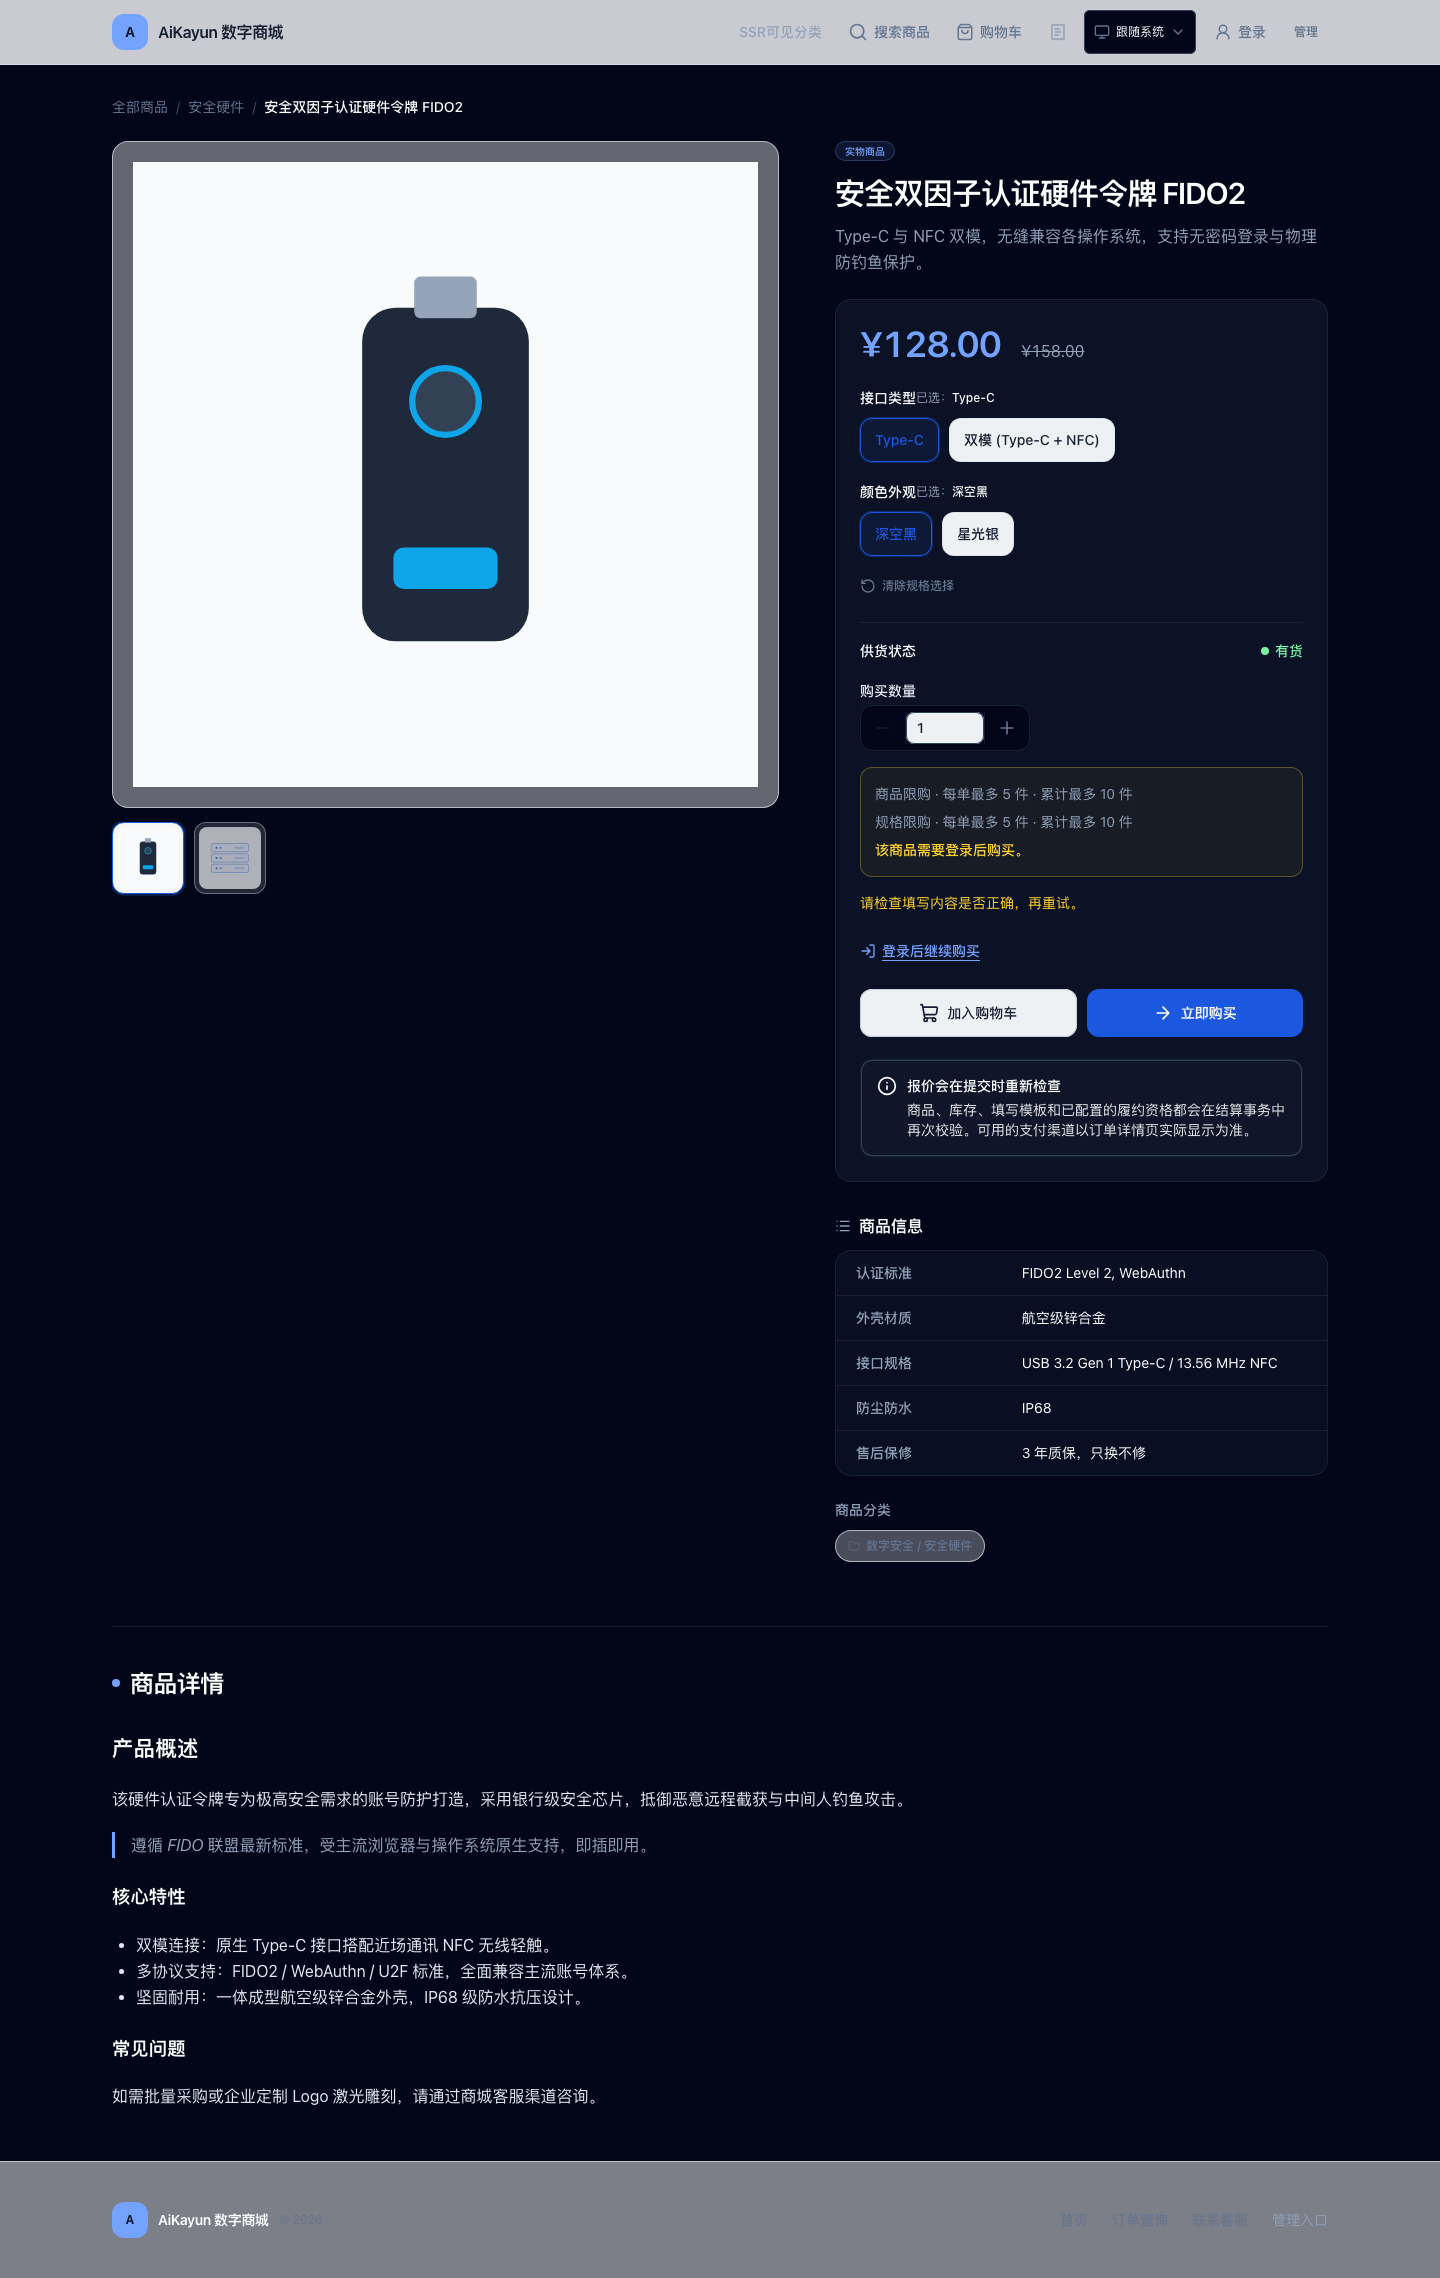
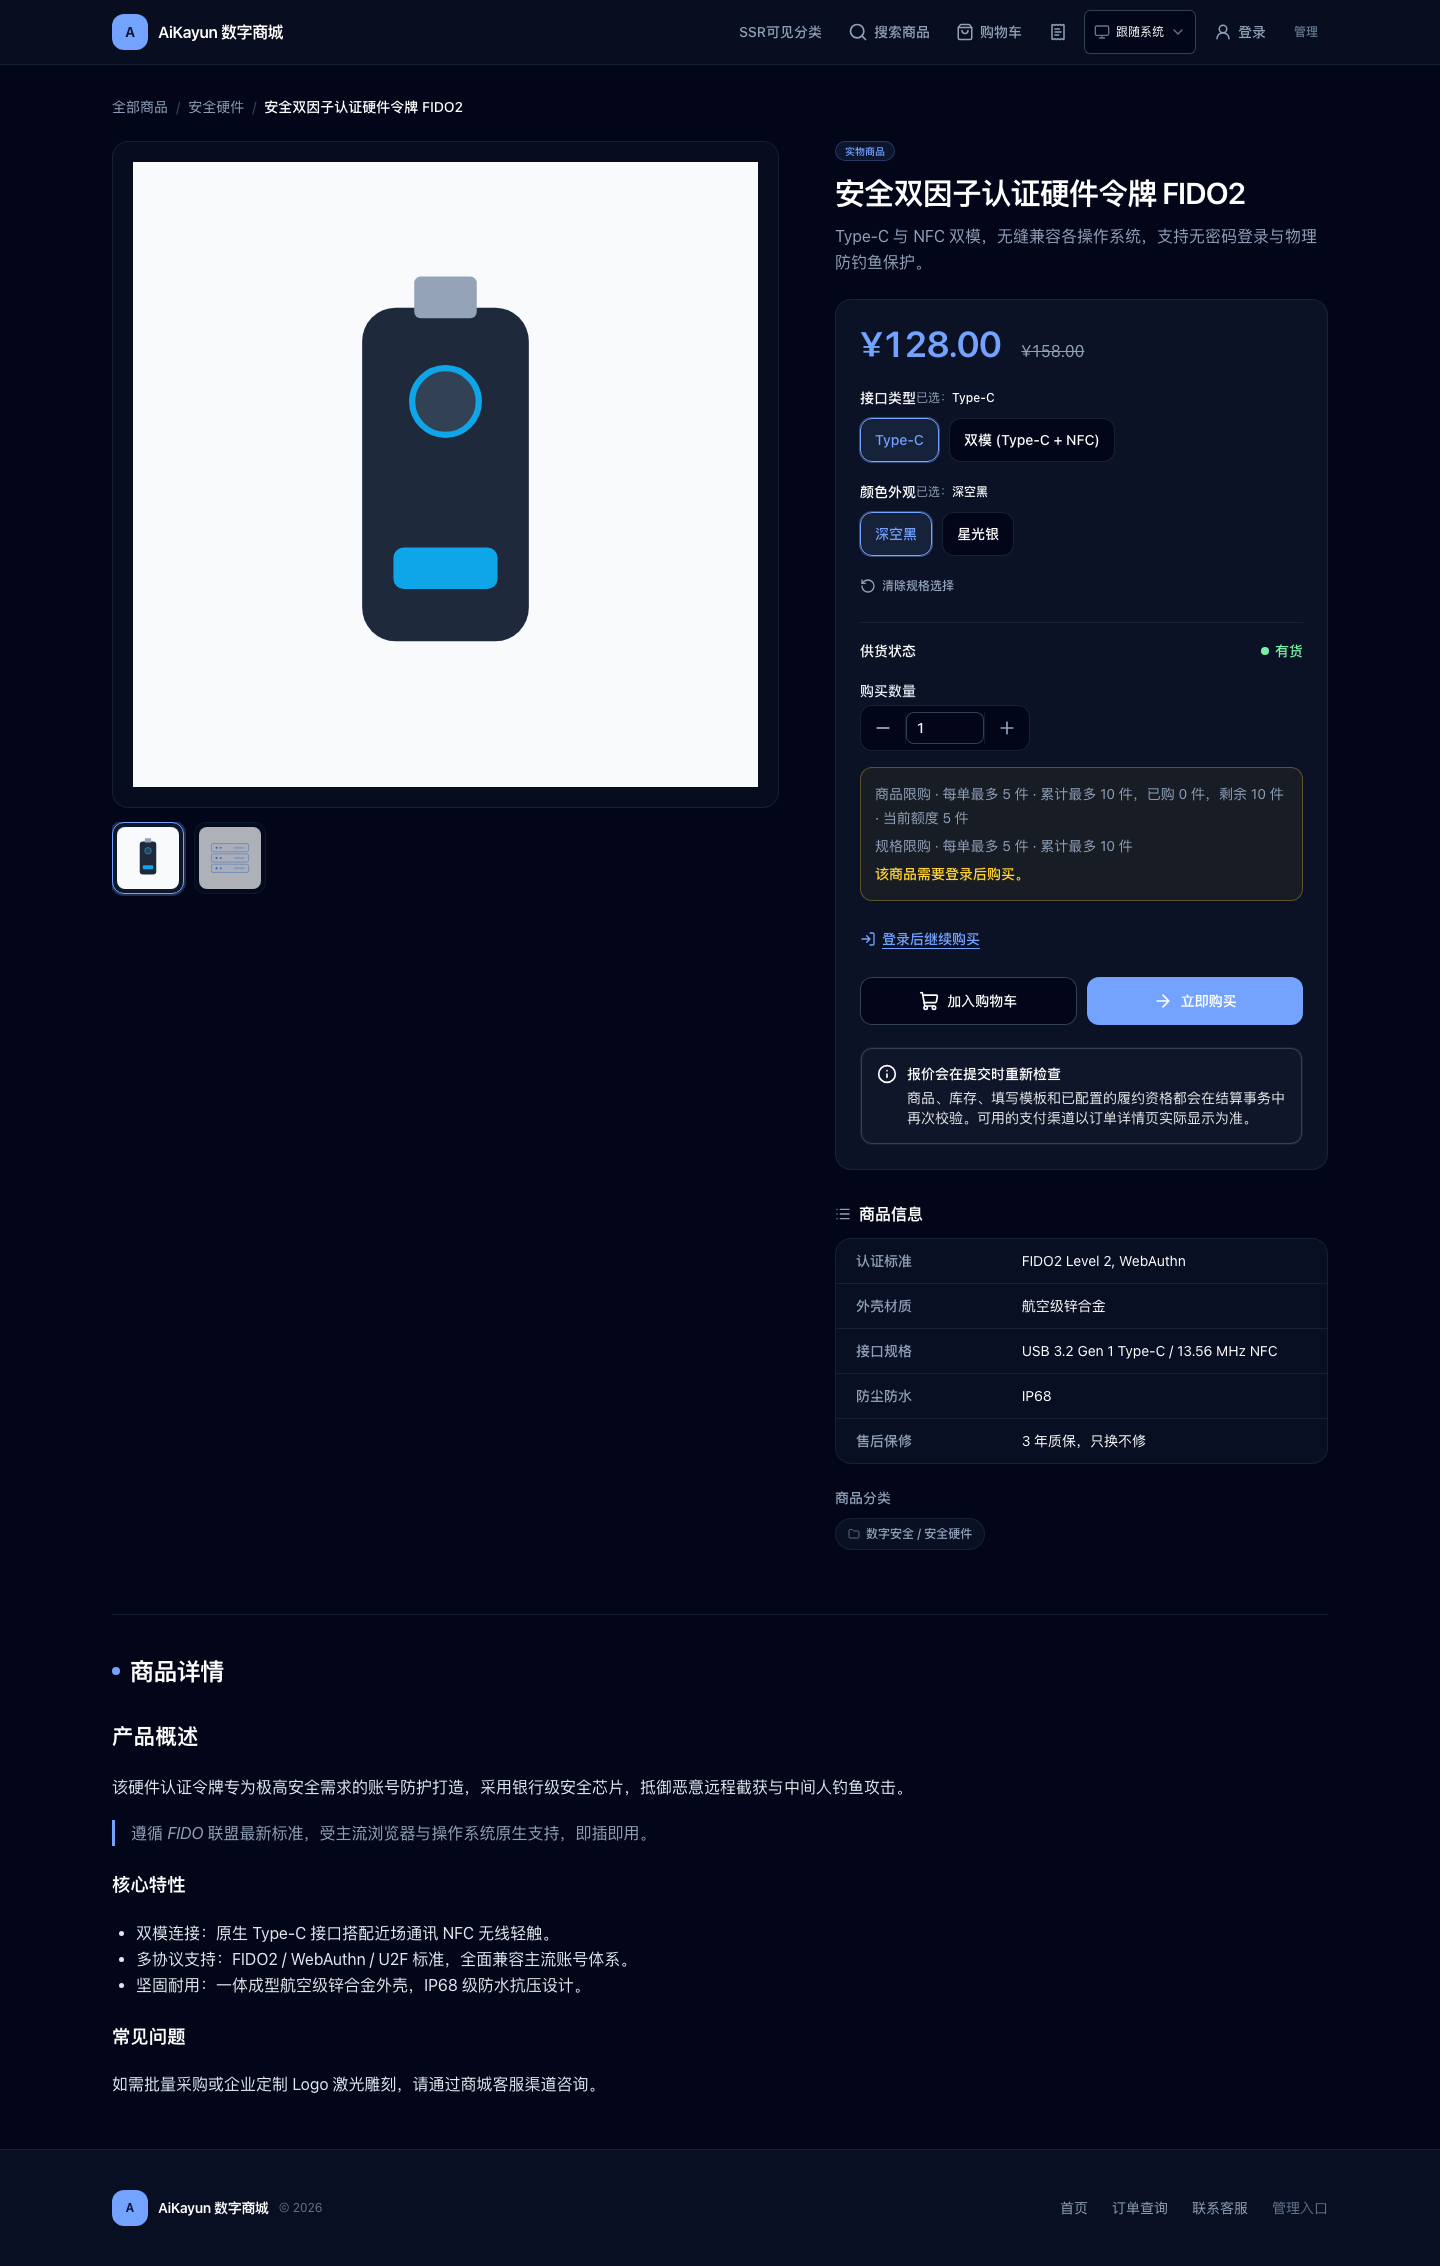
fix(storefront): 修正购买资料测试Fixture、校验清理与验收断言 (阶段③-B1 R1)

diff --git a/apps/web/test/e2e/d7-ssr-error.spec.ts b/apps/web/test/e2e/d7-ssr-error.spec.ts
@@ -179,6 +179,21 @@ test('product detail page visual, multi-spec SKU selection, purchase form and re
     copyFileSync(destRepo, destArtifact)
   }
 
+  async function takeCleanFullScreenshot(screenshotPath: string, filename: string): Promise<void> {
+    await page.evaluate(() => {
+      window.scrollTo(0, 0)
+      const header = document.querySelector('header')
+      if (header) header.style.position = 'relative'
+    })
+    await page.waitForTimeout(100)
+    await page.screenshot({ path: screenshotPath, fullPage: true, animations: 'disabled' })
+    await page.evaluate(() => {
+      const header = document.querySelector('header')
+      if (header) header.style.position = ''
+    })
+    saveShot(filename)
+  }
+
   // 1. Multi-spec product detail page
   await page.setViewportSize({ width: 1440, height: 900 })
   await page.goto(`/products/${multiSpecProductId}`)
@@ -234,38 +249,37 @@ test('product detail page visual, multi-spec SKU selection, purchase form and re
 
   // Desktop Light Screenshot
   const desktopLightPath = resolve(screenshotsDir, 'product-detail-desktop-light.png')
-  await page.screenshot({ path: desktopLightPath, fullPage: true })
-  saveShot('product-detail-desktop-light.png')
+  await takeCleanFullScreenshot(desktopLightPath, 'product-detail-desktop-light.png')
 
   // Desktop Dark Screenshot
   await page.evaluate(() => {
     document.documentElement.classList.remove('light')
     document.documentElement.classList.add('dark')
   })
+  await page.waitForTimeout(200)
   const desktopDarkPath = resolve(screenshotsDir, 'product-detail-desktop-dark.png')
-  await page.screenshot({ path: desktopDarkPath, fullPage: true })
-  saveShot('product-detail-desktop-dark.png')
+  await takeCleanFullScreenshot(desktopDarkPath, 'product-detail-desktop-dark.png')
 
   // Mobile Dark Screenshot (390x844)
   await page.setViewportSize({ width: 390, height: 844 })
+  await page.waitForTimeout(200)
   const mobileDarkPath = resolve(screenshotsDir, 'product-detail-mobile-dark.png')
-  await page.screenshot({ path: mobileDarkPath, fullPage: true })
-  saveShot('product-detail-mobile-dark.png')
+  await takeCleanFullScreenshot(mobileDarkPath, 'product-detail-mobile-dark.png')
 
   // Mobile Light Screenshot (390x844)
   await page.evaluate(() => {
     document.documentElement.classList.remove('dark')
     document.documentElement.classList.add('light')
   })
+  await page.waitForTimeout(300)
   const mobileLightPath = resolve(screenshotsDir, 'product-detail-mobile-light.png')
-  await page.screenshot({ path: mobileLightPath, fullPage: true })
-  saveShot('product-detail-mobile-light.png')
+  await takeCleanFullScreenshot(mobileLightPath, 'product-detail-mobile-light.png')
 
   // Mobile 320px Light Screenshot
   await page.setViewportSize({ width: 320, height: 640 })
+  await page.waitForTimeout(200)
   const mobile320Path = resolve(screenshotsDir, 'product-detail-mobile-320px-light.png')
-  await page.screenshot({ path: mobile320Path, fullPage: true })
-  saveShot('product-detail-mobile-320px-light.png')
+  await takeCleanFullScreenshot(mobile320Path, 'product-detail-mobile-320px-light.png')
 
   // 2. Product with purchase form
   await page.setViewportSize({ width: 1440, height: 900 })
@@ -278,15 +292,40 @@ test('product detail page visual, multi-spec SKU selection, purchase form and re
   // Click create new draft
   await page.getByRole('button', { name: '新建一组购买资料' }).click()
   await expect(page.getByLabel('待部署主域名')).toBeVisible()
+
+  // Partially fill: only fill domain, omit environment
   await page.getByLabel('待部署主域名').fill('shop.aiove.top')
-  await expect(page.getByRole('button', { name: '保存填写内容' })).toBeEnabled()
-  await page.getByRole('button', { name: '保存填写内容' }).click()
   await expect(page.getByRole('button', { name: '校验完整性' })).toBeEnabled()
   await page.getByRole('button', { name: '校验完整性' }).click()
 
+  // Validate fails and clearly indicates missing field
+  await expect(page.getByText('还需填写：目标服务器环境')).toBeVisible()
+  await expect(page.getByText('请填写此项。')).toBeVisible()
+  await expect(page.getByText('填写校验通过。')).toBeHidden()
+
+  // Complete remaining required field
+  await page.getByRole('combobox', { name: '目标服务器环境' }).click()
+  await page.getByRole('option', { name: 'Caddy' }).click()
+  await expect(page.getByRole('option', { name: 'Caddy' })).toBeHidden()
+
+  // Save draft and verify save success
+  await expect(page.getByRole('button', { name: '保存填写内容' })).toBeEnabled()
+  await page.getByRole('button', { name: '保存填写内容' }).click()
+  await expect(page.getByText('已保存，填写资料完整。')).toBeVisible()
+
+  // Validate completeness and verify success
+  await expect(page.getByRole('button', { name: '校验完整性' })).toBeEnabled()
+  await page.getByRole('button', { name: '校验完整性' }).click()
+  await expect(page.getByText('填写校验通过。')).toBeVisible()
+
+  // Assert no lingering runtime or form errors
+  await expect(page.locator('[role="alert"]')).toBeHidden()
+  await expect(page.getByText(/Cannot read properties/)).toBeHidden()
+  await expect(page.getByText('请检查填写内容是否正确，再重试。')).toBeHidden()
+  await expect(page.getByText('请填写此项。')).toBeHidden()
+
   const formDesktopPath = resolve(screenshotsDir, 'product-detail-form-desktop-light.png')
-  await page.screenshot({ path: formDesktopPath, fullPage: true })
-  saveShot('product-detail-form-desktop-light.png')
+  await takeCleanFullScreenshot(formDesktopPath, 'product-detail-form-desktop-light.png')
 
   // 3. Product without cover and out of stock
   await page.goto(`/products/${outOfStockProductId}`)
@@ -297,6 +336,5 @@ test('product detail page visual, multi-spec SKU selection, purchase form and re
   await expect(page.getByText('暂时缺货')).toBeVisible()
 
   const emptyCoverPath = resolve(screenshotsDir, 'product-detail-empty-cover-light.png')
-  await page.screenshot({ path: emptyCoverPath, fullPage: true })
-  saveShot('product-detail-empty-cover-light.png')
+  await takeCleanFullScreenshot(emptyCoverPath, 'product-detail-empty-cover-light.png')
 })

diff --git a/apps/web/pages/products/[id].vue b/apps/web/pages/products/[id].vue
@@ -918,6 +918,8 @@ async function savePurchaseValues(
     if (!complete && !editingReplacement) {
       setIncompleteErrors(saved.incompleteFieldIds)
       purchaseFormMessage.value = `已保存部分内容。${purchaseFormMessage.value}`
+    } else if (complete && !editingReplacement) {
+      purchaseFormErrors.value = {}
     } else if (!complete && editingReplacement) {
       const validation = normalizePurchaseFormAnswers(purchaseDefinition.value!, displayed.values, {
         requireComplete: true,
@@ -994,6 +996,7 @@ async function validatePurchaseValues(): Promise<boolean> {
     if (cartEdit.value && !await attachValidatedDraftToCart(draft, currentContext)) return false
     if (!purchasePageContextIsCurrent(currentContext)) return false
     purchaseFormErrors.value = {}
+    purchaseFormError.value = ''
     purchaseFormMessage.value = '填写校验通过。'
     await refreshPurchaseQuote()
     if (!purchasePageContextIsCurrent(currentContext, false)) return false
